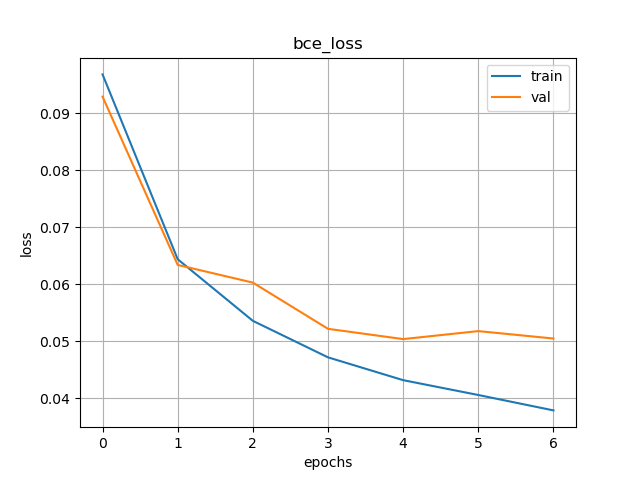
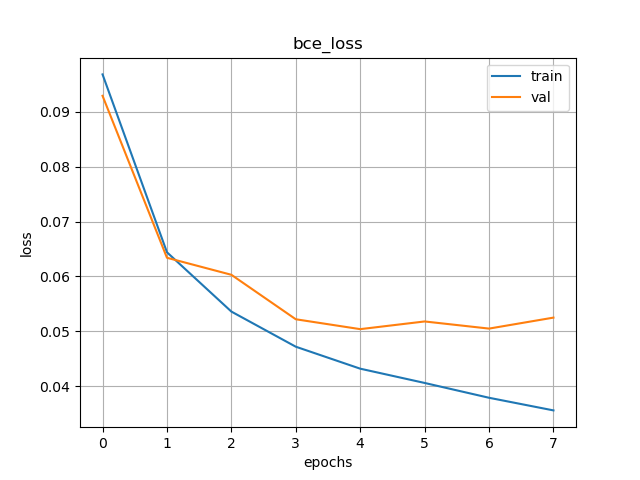
no comment

diff --git a/loss.py b/loss.py
@@ -76,7 +76,7 @@ class SSIM_DICE_BCE(nn.Module):
         super().__init__() 
         self.ssim = SSIM() 
         self.dice= DiceLoss() 
-        self.bce = nn.BCELoss()
+        self.bce = nn.BCEWithLogitsLoss()
 
     def forward(self, logits, targets):
         ssim_loss = self.ssim(logits, targets.to(torch.float32)) 
